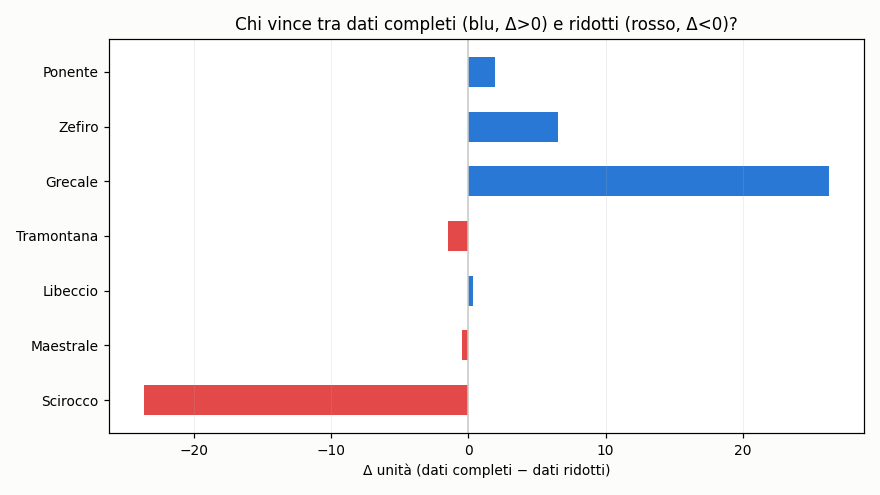
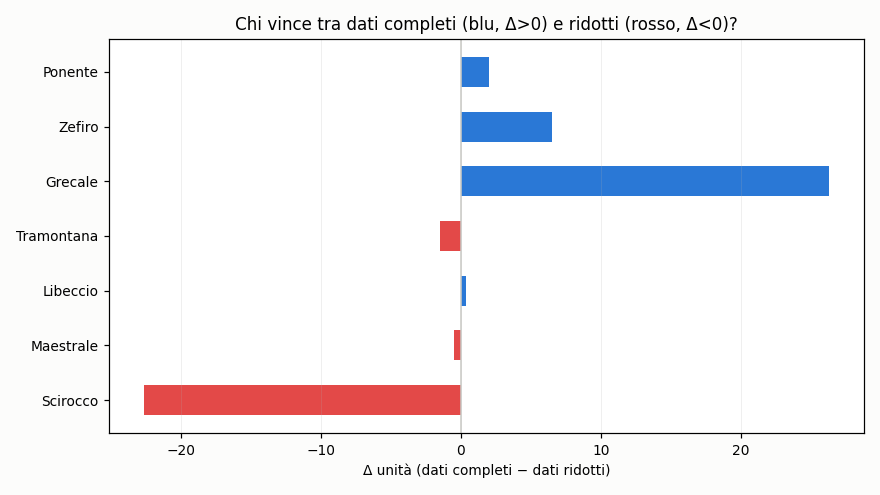
aggiornamento 2026-07-26 16:36 UTC

diff --git a/README.md b/README.md
@@ -37,9 +37,9 @@ scala in unità). Non indichiamo quale.
 
 ## Grafici
 
-![Coppie: dati completi vs ridotti](https://raw.githubusercontent.com/Kitem19/ippica-track-record/main/charts/equity_pairs.png?v=2da92934)
+![Coppie: dati completi vs ridotti](https://raw.githubusercontent.com/Kitem19/ippica-track-record/main/charts/equity_pairs.png?v=66148a13)
 
-![Delta per coppia](https://raw.githubusercontent.com/Kitem19/ippica-track-record/main/charts/coppie_delta.png?v=37f36345)
+![Delta per coppia](https://raw.githubusercontent.com/Kitem19/ippica-track-record/main/charts/coppie_delta.png?v=e7fe9669)
 
 ### Come leggere i grafici
 
@@ -56,7 +56,7 @@ scala in unità). Non indichiamo quale.
 
 _Poche giornate: numeri ancora rumorosi, si conclude a fine fase (31/7)._
 
-- **Scirocco**: dati ridotti avanti di 23,7u — qui gli extra non aiutano
+- **Scirocco**: dati ridotti avanti di 22,7u — qui gli extra non aiutano
 - **Maestrale**: in sostanziale pareggio — troppo presto per dire
 - **Libeccio**: in sostanziale pareggio — troppo presto per dire
 - **Tramontana**: in sostanziale pareggio — troppo presto per dire
@@ -69,12 +69,12 @@ _Poche giornate: numeri ancora rumorosi, si conclude a fine fase (31/7)._
 | Sistema | Cassa (u) | P/L (u) | Selezioni | Escluse | Stato |
 |---|---|---|---|---|---|
 | Grecale | 26,1 | +6,1 | 301 | 4 | 🟢 |
-| Scirocco-B | 23,6 | +3,6 | 236 | 0 | 🟢 |
+| Scirocco-B | 22,6 | +2,6 | 237 | 0 | 🟢 |
 | Zefiro | 6,1 | -13,9 | 261 | 8 | ⏸ |
 | Tramontana-B | 1,2 | -18,8 | 323 | 12 | ⏸ |
 | Ponente | 1,0 | -19,0 | 210 | 28 | 🟢 |
 | Maestrale-B | 0,0 | -20,0 | 100 | 234 | 🛑 |
-| Scirocco | 0,0 | -20,1 | 80 | 261 | 🛑 |
+| Scirocco | 0,0 | -20,1 | 80 | 262 | 🛑 |
 | Grecale-B | 0,0 | -20,2 | 137 | 173 | 🛑 |
 | Tramontana | 0,0 | -20,3 | 45 | 305 | 🛑 |
 | Zefiro-B | 0,0 | -20,5 | 143 | 70 | 🛑 |
@@ -83,7 +83,7 @@ _Poche giornate: numeri ancora rumorosi, si conclude a fine fase (31/7)._
 | Libeccio-B | 0,0 | -20,9 | 119 | 178 | 🛑 |
 | Ponente-B | 0,0 | -21,0 | 63 | 84 | 🛑 |
 
-_Aggiornato: 26/07 18:31_
+_Aggiornato: 26/07 18:36_
 ---
 *Nessuna delle informazioni qui pubblicate costituisce consiglio di gioco.
 Il gioco può causare dipendenza — 18+.*
